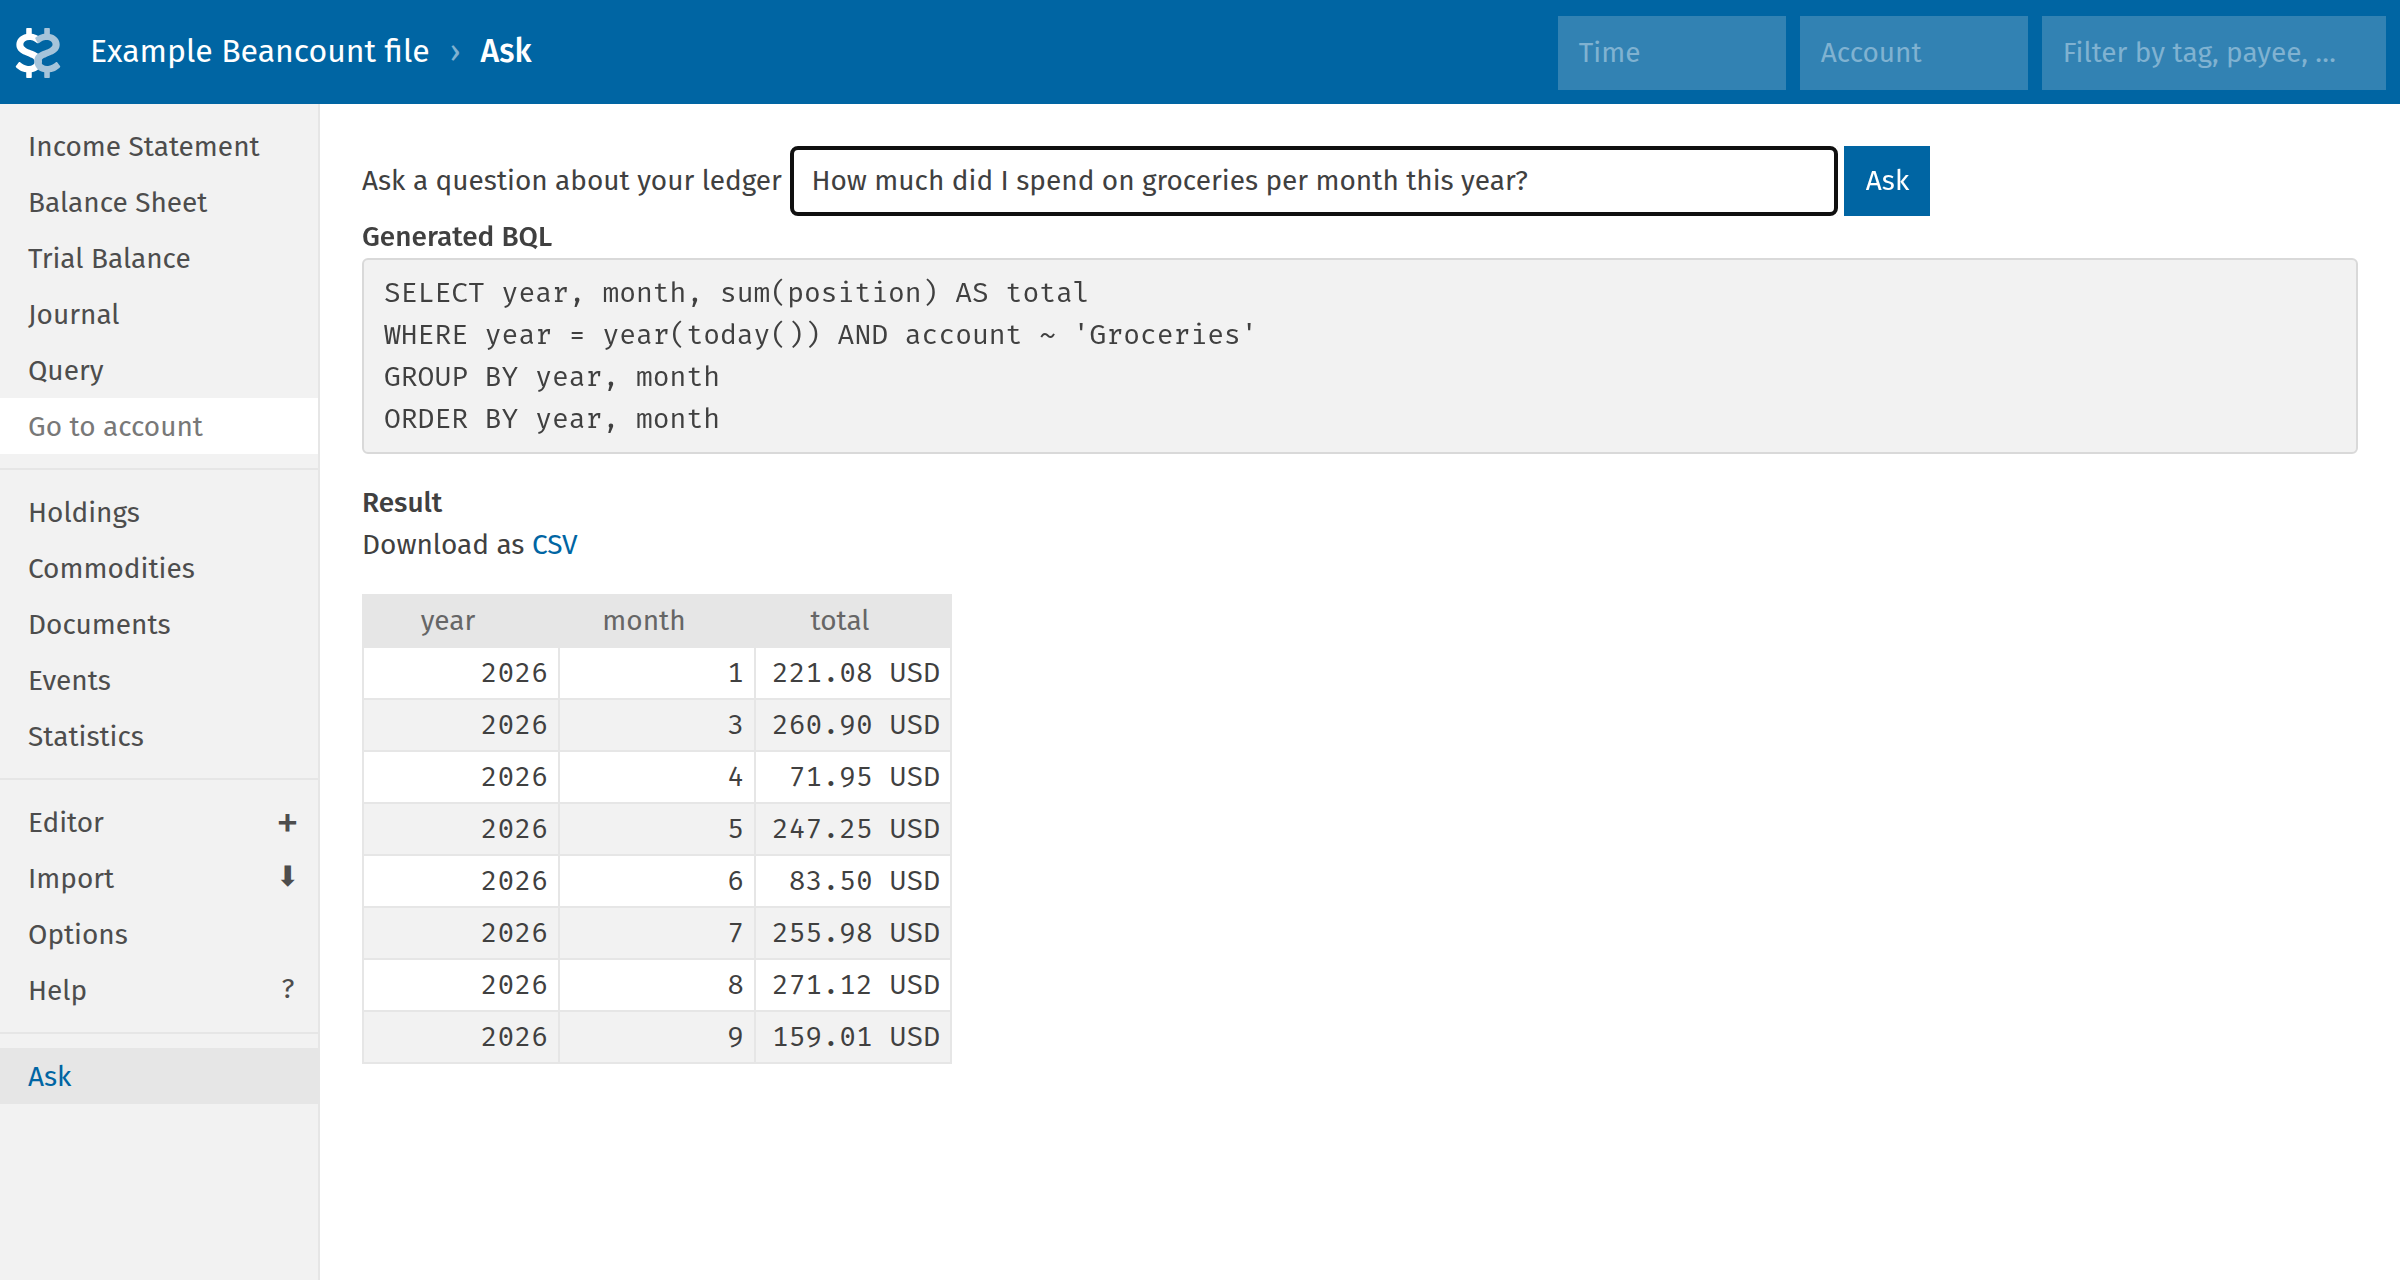
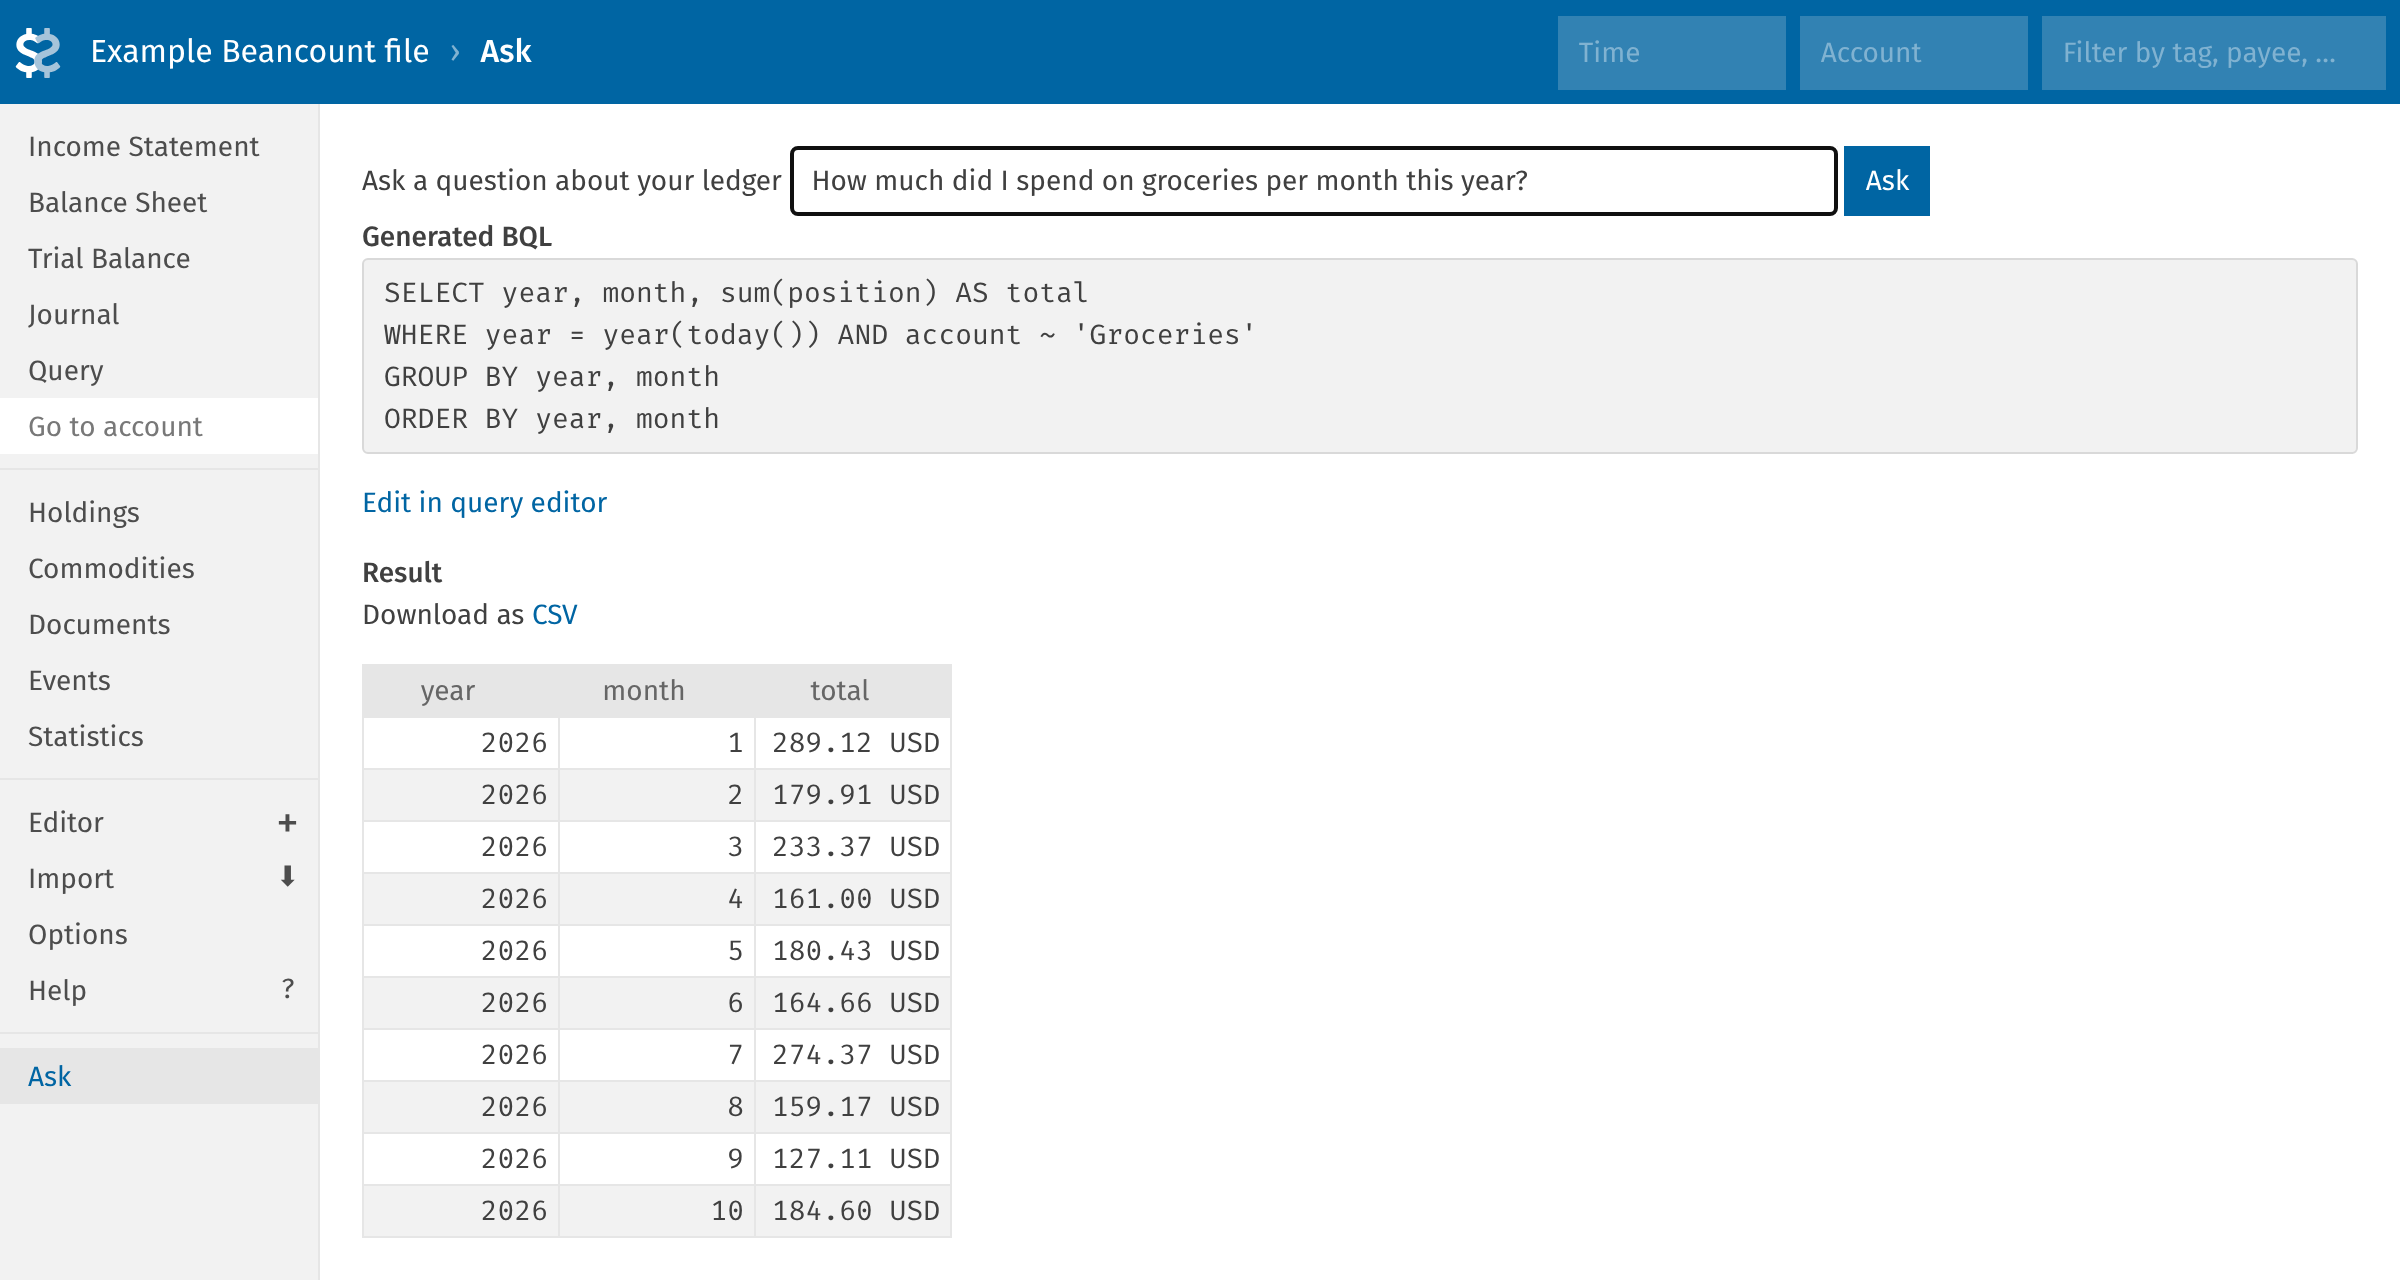
Add a link to edit the generated query in Fava's query editor
The generated BQL could only be read, not changed. When the model gets a
query almost right, the user had to copy it to Fava's Query page by hand.
The link opens that page with the query filled in and run, keeping the
current filters. The screenshots are regenerated to show the link.

diff --git a/src/fava_nl2bql/templates/FavaNl2Bql.html b/src/fava_nl2bql/templates/FavaNl2Bql.html
@@ -14,6 +14,7 @@
   {% elif translation.bql %}
     <h4>Generated BQL</h4>
     <pre>{{ translation.bql }}</pre>
+    <p><a href="{{ url_for('report', report_name='query', query_string=translation.bql) }}">Edit in query editor</a></p>
 
     <h4>Result</h4>
     {% set result = extension.run_query(translation.bql) %}

diff --git a/tests/fava_nl2bql/test_template.py b/tests/fava_nl2bql/test_template.py
@@ -1,0 +1,80 @@
+from html.parser import HTMLParser
+from pathlib import Path
+from unittest.mock import MagicMock, patch
+from urllib.parse import parse_qs, urlsplit
+
+import pytest
+from fava.application import create_app
+from flask.testing import FlaskClient
+
+from fava_nl2bql.translator import Translation
+
+BQL = "SELECT account, sum(position)\nWHERE account ~ 'Groceries'\nGROUP BY account"
+
+LEDGER = """\
+option "title" "Example"
+
+2026-01-01 open Assets:Bank:Checking EUR
+2026-01-01 open Expenses:Food:Groceries EUR
+
+2026-01-05 * "Corner Shop" "Weekly groceries"
+  Expenses:Food:Groceries  42.00 EUR
+  Assets:Bank:Checking
+
+2026-01-01 custom "fava-extension" "fava_nl2bql.extension"
+"""
+
+
+class _Links(HTMLParser):
+    def __init__(self) -> None:
+        super().__init__()
+        self.links: dict[str, str] = {}
+        self._href: str | None = None
+
+    def handle_starttag(self, tag: str, attrs: list[tuple[str, str | None]]) -> None:
+        if tag == "a":
+            self._href = dict(attrs).get("href")
+
+    def handle_data(self, data: str) -> None:
+        if self._href is not None and data.strip():
+            self.links[data.strip()] = self._href
+            self._href = None
+
+
+@pytest.fixture
+def client(tmp_path: Path) -> FlaskClient:
+    ledger = tmp_path / "example.beancount"
+    ledger.write_text(LEDGER, encoding="utf-8")
+    app = create_app([str(ledger)], load=True)
+    app.testing = True
+    return app.test_client()
+
+
+@patch("fava_nl2bql.extension.translate_to_bql")
+def test_page_links_generated_query_to_query_editor(
+    mock_translate: MagicMock, client: FlaskClient
+) -> None:
+    mock_translate.return_value = Translation(bql=BQL, error=None)
+
+    response = client.get("/example/extension/FavaNl2Bql/?question=groceries")
+
+    assert response.status_code == 200
+    parser = _Links()
+    parser.feed(response.get_data(as_text=True))
+    url = urlsplit(parser.links["Edit in query editor"])
+    assert url.path == "/example/query/"
+    assert parse_qs(url.query) == {"query_string": [BQL]}
+
+
+@patch("fava_nl2bql.extension.translate_to_bql")
+def test_page_has_no_editor_link_without_a_query(
+    mock_translate: MagicMock, client: FlaskClient
+) -> None:
+    mock_translate.return_value = Translation(bql=None, error="model unreachable")
+
+    response = client.get("/example/extension/FavaNl2Bql/?question=groceries")
+
+    assert response.status_code == 200
+    body = response.get_data(as_text=True)
+    assert "model unreachable" in body
+    assert "Edit in query editor" not in body

diff --git a/docs/usage.rst b/docs/usage.rst
@@ -9,6 +9,9 @@ such as "how much did I spend on groceries last month", submit it, and the exten
 #. shows you the generated BQL query before running anything, and
 #. runs the query against the currently filtered ledger and renders the result table.
 
+To change the query, follow the "Edit in query editor" link below it. It opens Fava's own Query page with the
+generated query filled in and run, keeping the current filters, so you can edit it and run it again there.
+
 If the model server is unreachable, or the model produces something that isn't a valid BQL query, the extension
 shows an error message instead of a result.
 
